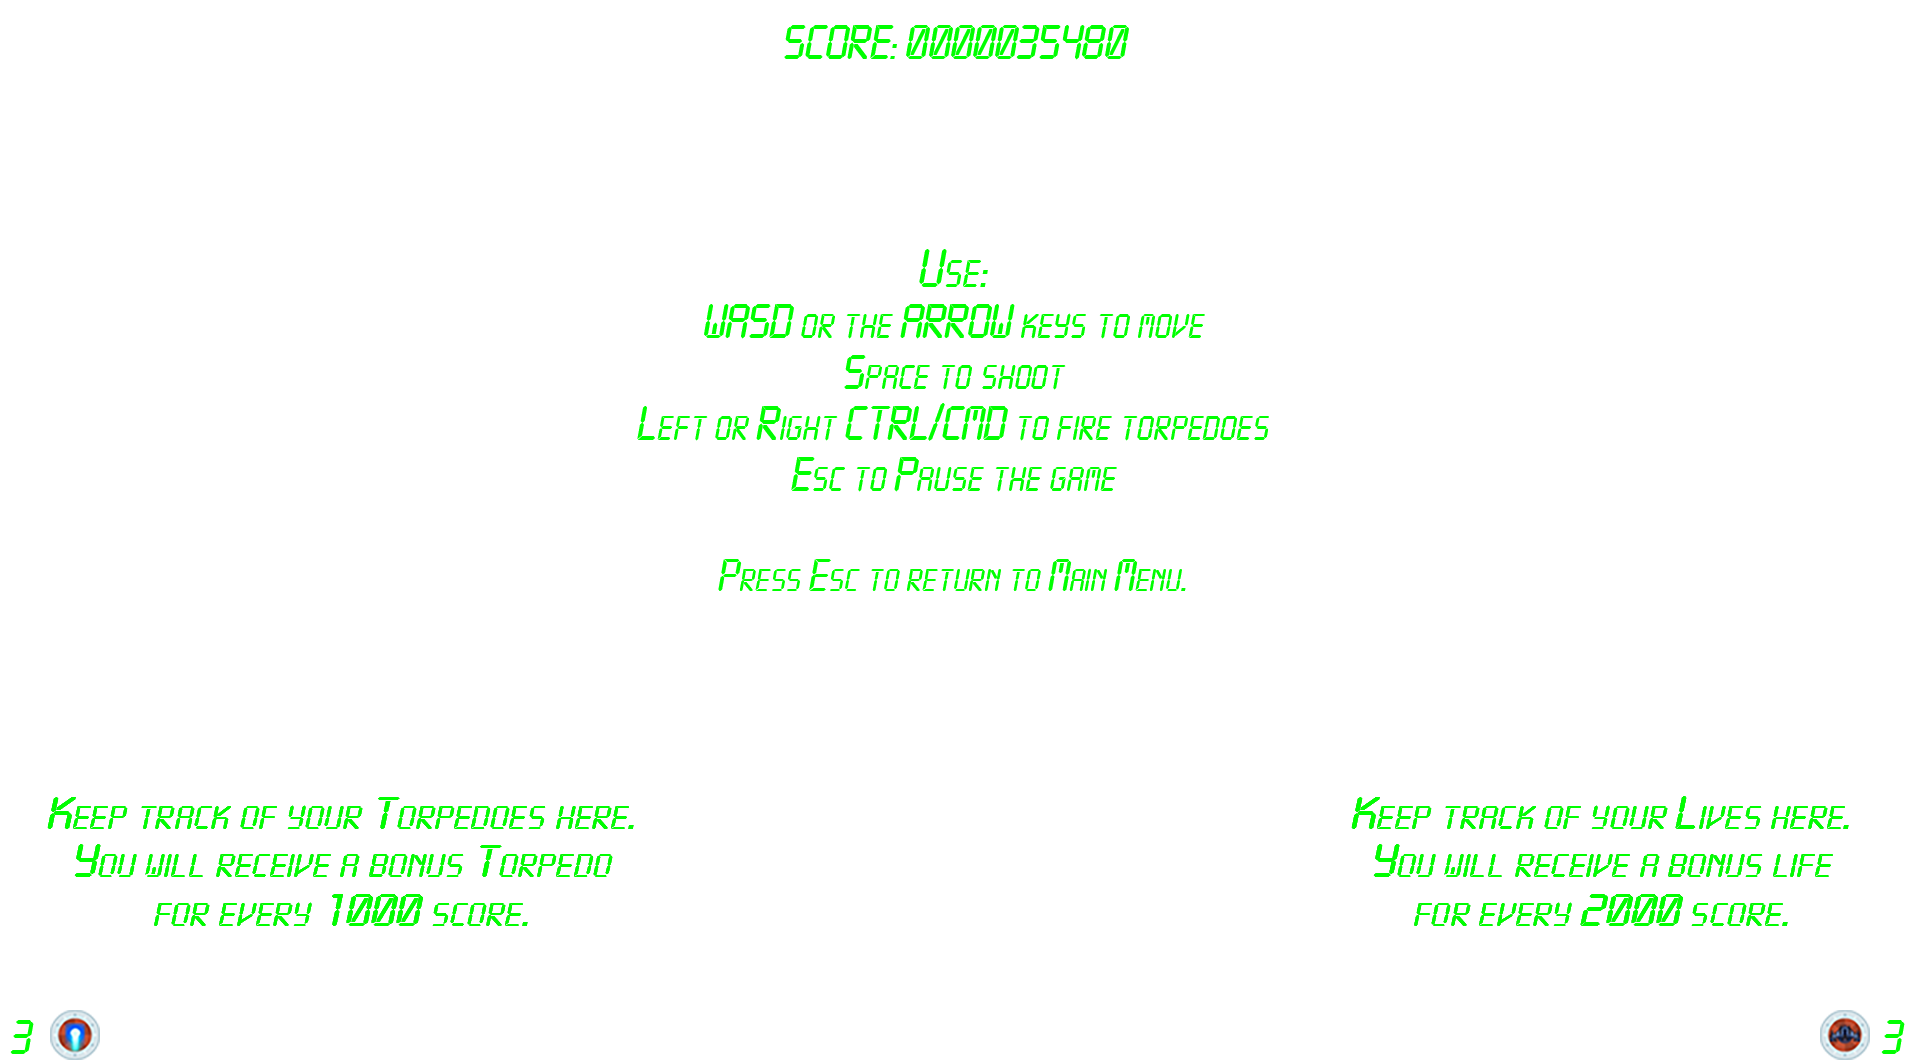
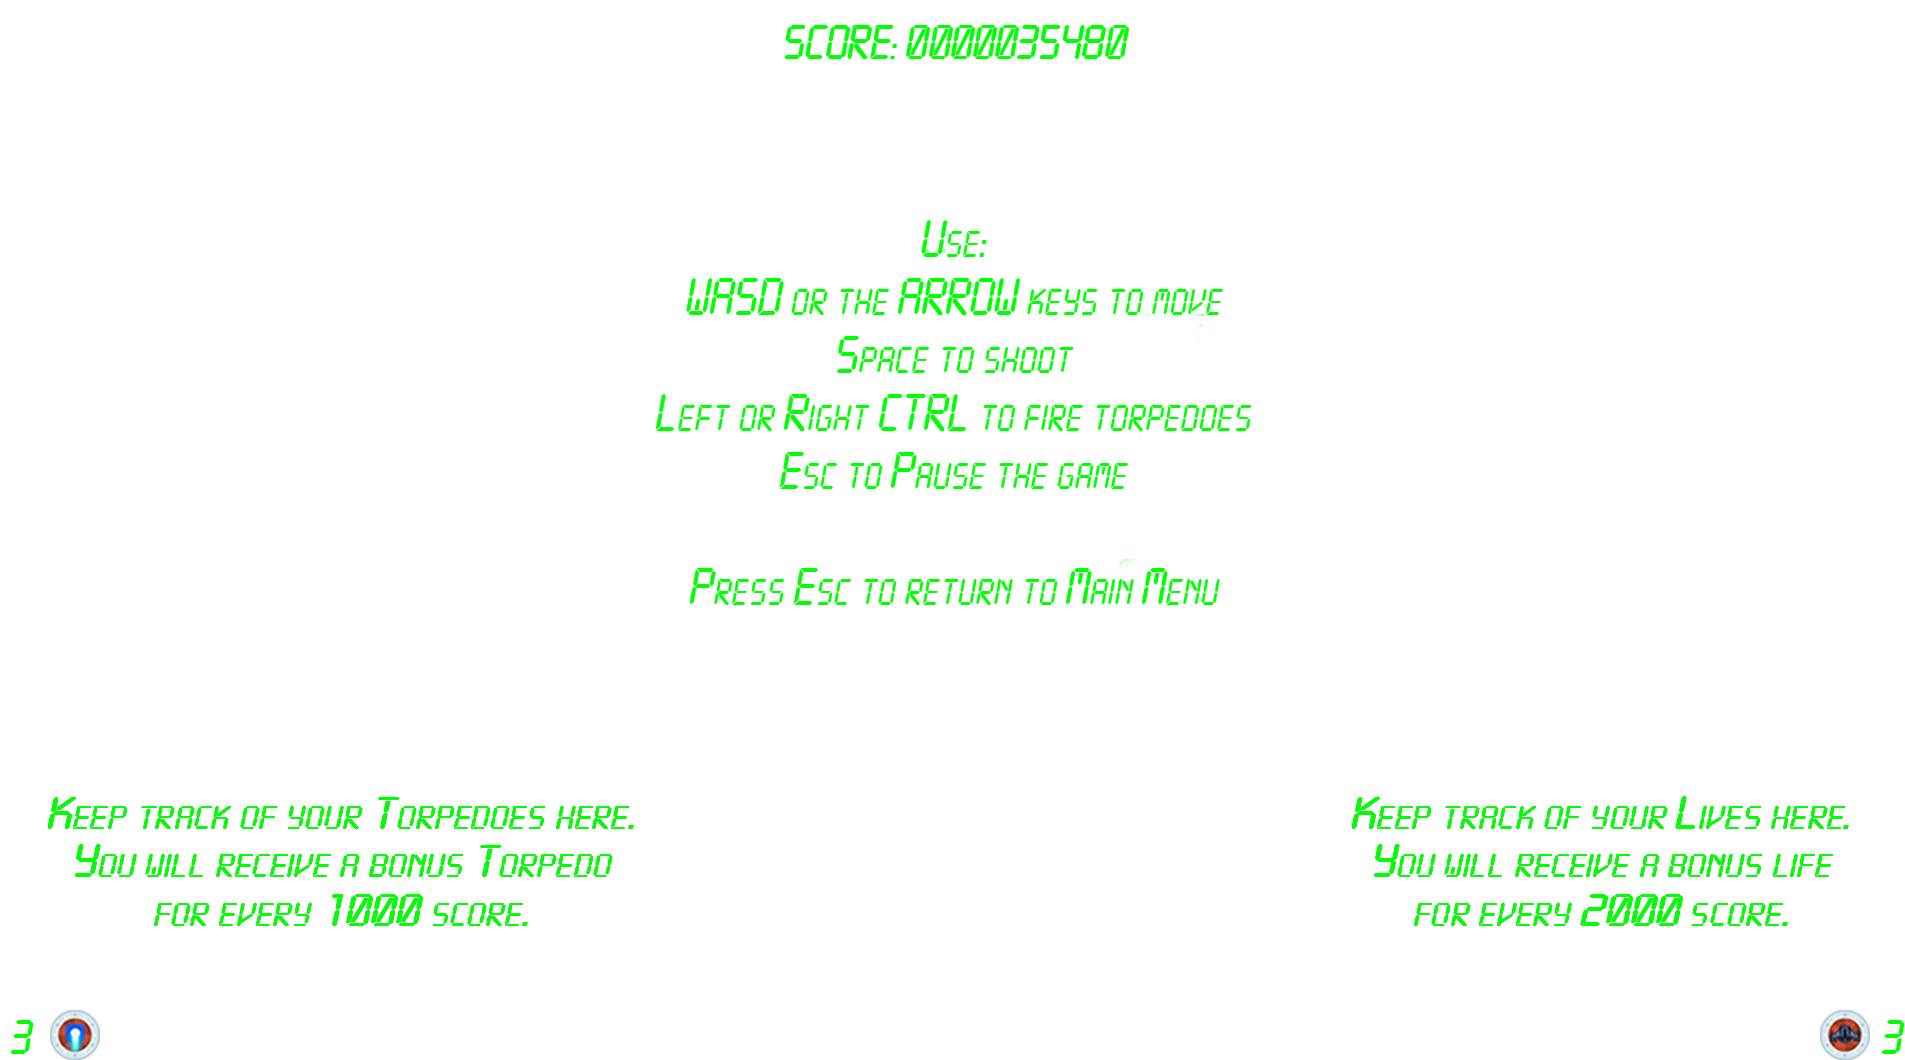
In Space Gauntlet: Added 3 seconds invulnearability to player ship after being killed. Added blinking animation to player ship during invulnerability. Fixed text in Instructions.

Changed region(s): [[0.3407, 0.2179, 0.6814, 0.467], [0.3717, 0.5292, 0.6504, 0.5915]]

diff --git a/Space_Gauntlet/space.py b/Space_Gauntlet/space.py
@@ -26,7 +26,7 @@ class Game:
         self.pause = False
 
         # Player ship
-        self.player_ship = PlayerShip(1920, 1080, PLAYER_SHIP_SPRITES)
+        self.player_ship = PlayerShip(1920, 1080, PLAYER_SHIP_SPRITES, PLAYER_SHIP_INVULNERABLE_SPRITES)
         self.player_group = pygame.sprite.Group()
         self.player_group.add(self.player_ship)
         self.text_player_lives = self.font.render(str(self.player_ship.player_lives), True, "green", None)
@@ -213,34 +213,39 @@ class Game:
                     self.torpedo_hit()
 
                 # Check if an enemy collided with player ship or if an enemy killed player ship
-                self.crash = pygame.sprite.groupcollide(self.player_group, self.enemy_ships_group, True, True,
-                                                        collided=lambda s1, s2: pygame.sprite.collide_mask(s1, s2) is
-                                                        not None)
-                self.crash_advanced = pygame.sprite.groupcollide(self.player_group, self.enemy_ships_advanced_group,
-                                                                 True, True, collided=lambda s1, s2: pygame.sprite.
-                                                                 collide_mask(s1, s2) is not None)
+                if current_time - self.death_time > 3000:
+                    self.player_ship.invulnerable = False
 
-                self.player_kill = pygame.sprite.groupcollide(self.enemy_lasers_group, self.player_group, True, True,
-                                                              collided=lambda s1, s2: pygame.sprite.collide_mask(s1, s2)
-                                                              is not None)
-                if self.crash or self.player_kill or self.crash_advanced or self.crash_boss:
-                    if PLAY_SOUND:
-                        pygame.mixer.Sound.play(PLAYER_EXPLOSION_SOUND)
-                    if self.crash or self.crash_advanced or self.crash_boss:
-                        explosion_player = Explosion(self.player_ship.rect[0], self.player_ship.rect[1],
-                                                     EXPLOSION_PLAYER_CRASH_SPRITES)
-                        self.explosion_group.add(explosion_player)
-                        if self.crash:
-                            self.score += 10
-                        if self.crash_advanced:
-                            self.score += 50
-                    if self.player_kill:
-                        explosion_player = Explosion(self.player_ship.rect[0], self.player_ship.rect[1],
-                                                     EXPLOSION_PLAYER_SPRITES)
-                        self.explosion_group.add(explosion_player)
-                    self.player_ship.player_lives -= 1
-                    self.player_ship.kill()
-                    self.death_time = pygame.time.get_ticks()
+                    self.crash = pygame.sprite.groupcollide(self.player_group, self.enemy_ships_group, True, True,
+                                                            collided=lambda s1, s2: pygame.sprite.collide_mask(s1, s2) is
+                                                            not None)
+                    self.crash_advanced = pygame.sprite.groupcollide(self.player_group, self.enemy_ships_advanced_group,
+                                                                     True, True, collided=lambda s1, s2: pygame.sprite.
+                                                                     collide_mask(s1, s2) is not None)
+
+                    self.player_kill = pygame.sprite.groupcollide(self.enemy_lasers_group, self.player_group, True, True,
+                                                                  collided=lambda s1, s2: pygame.sprite.collide_mask(s1, s2)
+                                                                  is not None)
+                    if self.crash or self.player_kill or self.crash_advanced or self.crash_boss:
+                        if PLAY_SOUND:
+                            pygame.mixer.Sound.play(PLAYER_EXPLOSION_SOUND)
+                        if self.crash or self.crash_advanced or self.crash_boss:
+                            explosion_player = Explosion(self.player_ship.rect[0], self.player_ship.rect[1],
+                                                         EXPLOSION_PLAYER_CRASH_SPRITES)
+                            self.explosion_group.add(explosion_player)
+                            if self.crash:
+                                self.score += 10
+                            if self.crash_advanced:
+                                self.score += 50
+                        if self.player_kill:
+                            explosion_player = Explosion(self.player_ship.rect[0], self.player_ship.rect[1],
+                                                         EXPLOSION_PLAYER_SPRITES)
+                            self.explosion_group.add(explosion_player)
+                        self.player_ship.player_lives -= 1
+                        self.player_ship.kill()
+                        self.death_time = pygame.time.get_ticks()
+                else:
+                    self.player_ship.invulnerable = True
 
                 # Check if enemies are less than max number of enemies and add more
                 if not self.enemy_boss_spawn:
@@ -512,6 +517,7 @@ PLAY_SOUND = True
 # Animation sprites
 sprite_animation_assets = load_sprite_animations()
 PLAYER_SHIP_SPRITES = sprite_animation_assets['PLAYER_SHIP']
+PLAYER_SHIP_INVULNERABLE_SPRITES = sprite_animation_assets['PLAYER_SHIP_INVULNERABLE']
 EXPLOSION_PLAYER_SPRITES = sprite_animation_assets['EXPLOSION_PLAYER']
 EXPLOSION_PLAYER_CRASH_SPRITES = sprite_animation_assets['EXPLOSION_PLAYER_CRASH']
 ENEMY_SHIP_SPRITES = sprite_animation_assets['ENEMY_SHIP']

diff --git a/Space_Gauntlet/player.py b/Space_Gauntlet/player.py
@@ -5,10 +5,13 @@ pygame.init()
 
 class PlayerShip(pygame.sprite.Sprite):
     """Main player class, responsible for the player's ship, movement and firing controls"""
-    def __init__(self, width, height, image_list):
+    def __init__(self, width, height, image_list, image_list_invul):
         super().__init__()
-        self.images = image_list
         self.index = 0
+        self.invulnerable = False
+        self.invul_images = image_list_invul
+        self.normal_images = image_list
+        self.images = image_list
         self.image = self.images[self.index]
         self.mask = pygame.mask.from_surface(self.image)
         self.rect = self.image.get_rect(center=(width/2, height - 50))
@@ -20,7 +23,10 @@ class PlayerShip(pygame.sprite.Sprite):
     def update(self):
         engine_animation_speed = 4
         self.counter += 1
-
+        if self.invulnerable:
+            self.images = self.invul_images
+        else:
+            self.images = self.normal_images
         if self.counter >= engine_animation_speed and self.index < len(self.images) - 1:
             self.counter = 0
             self.index += 1
